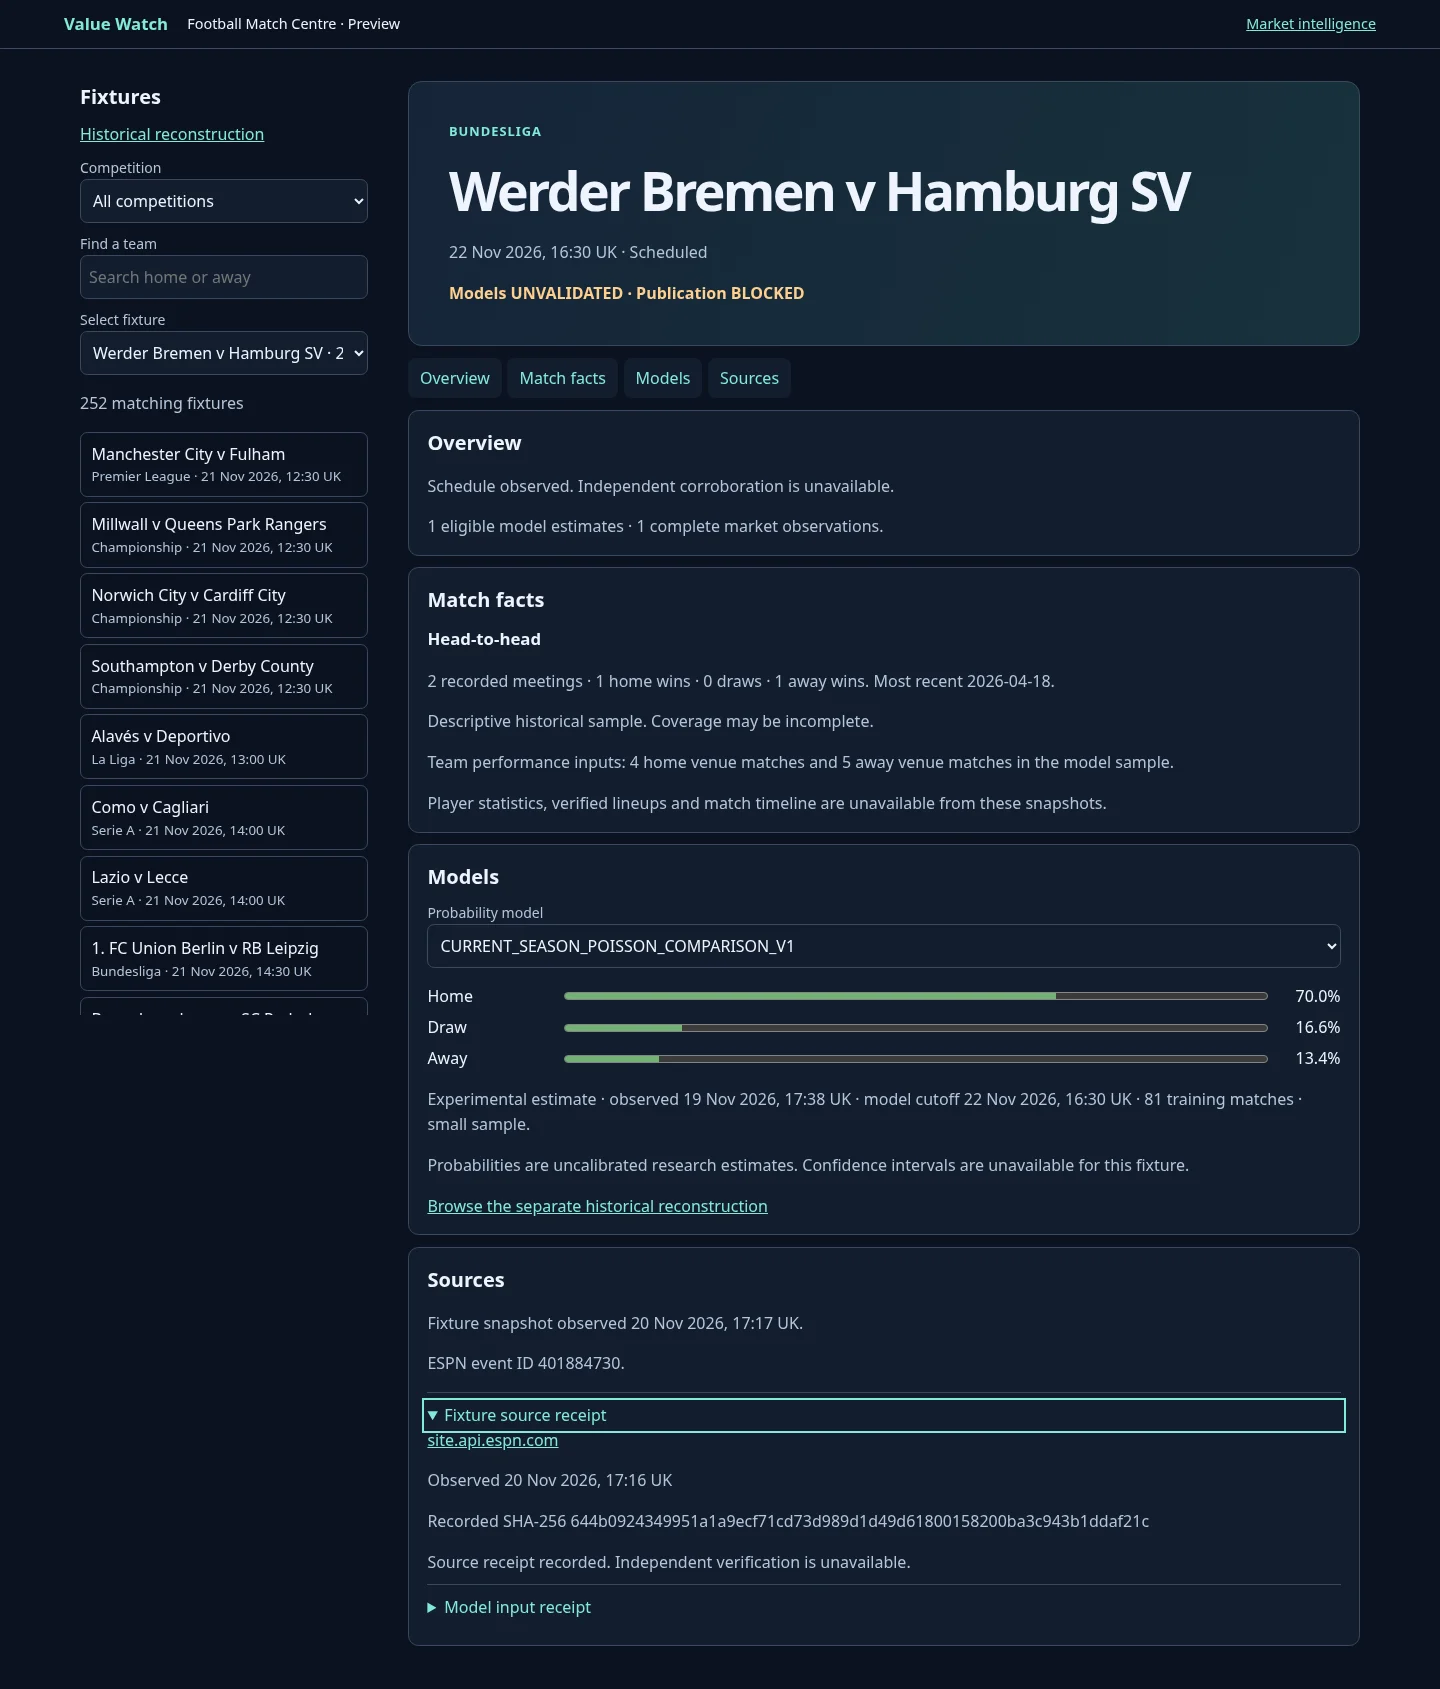
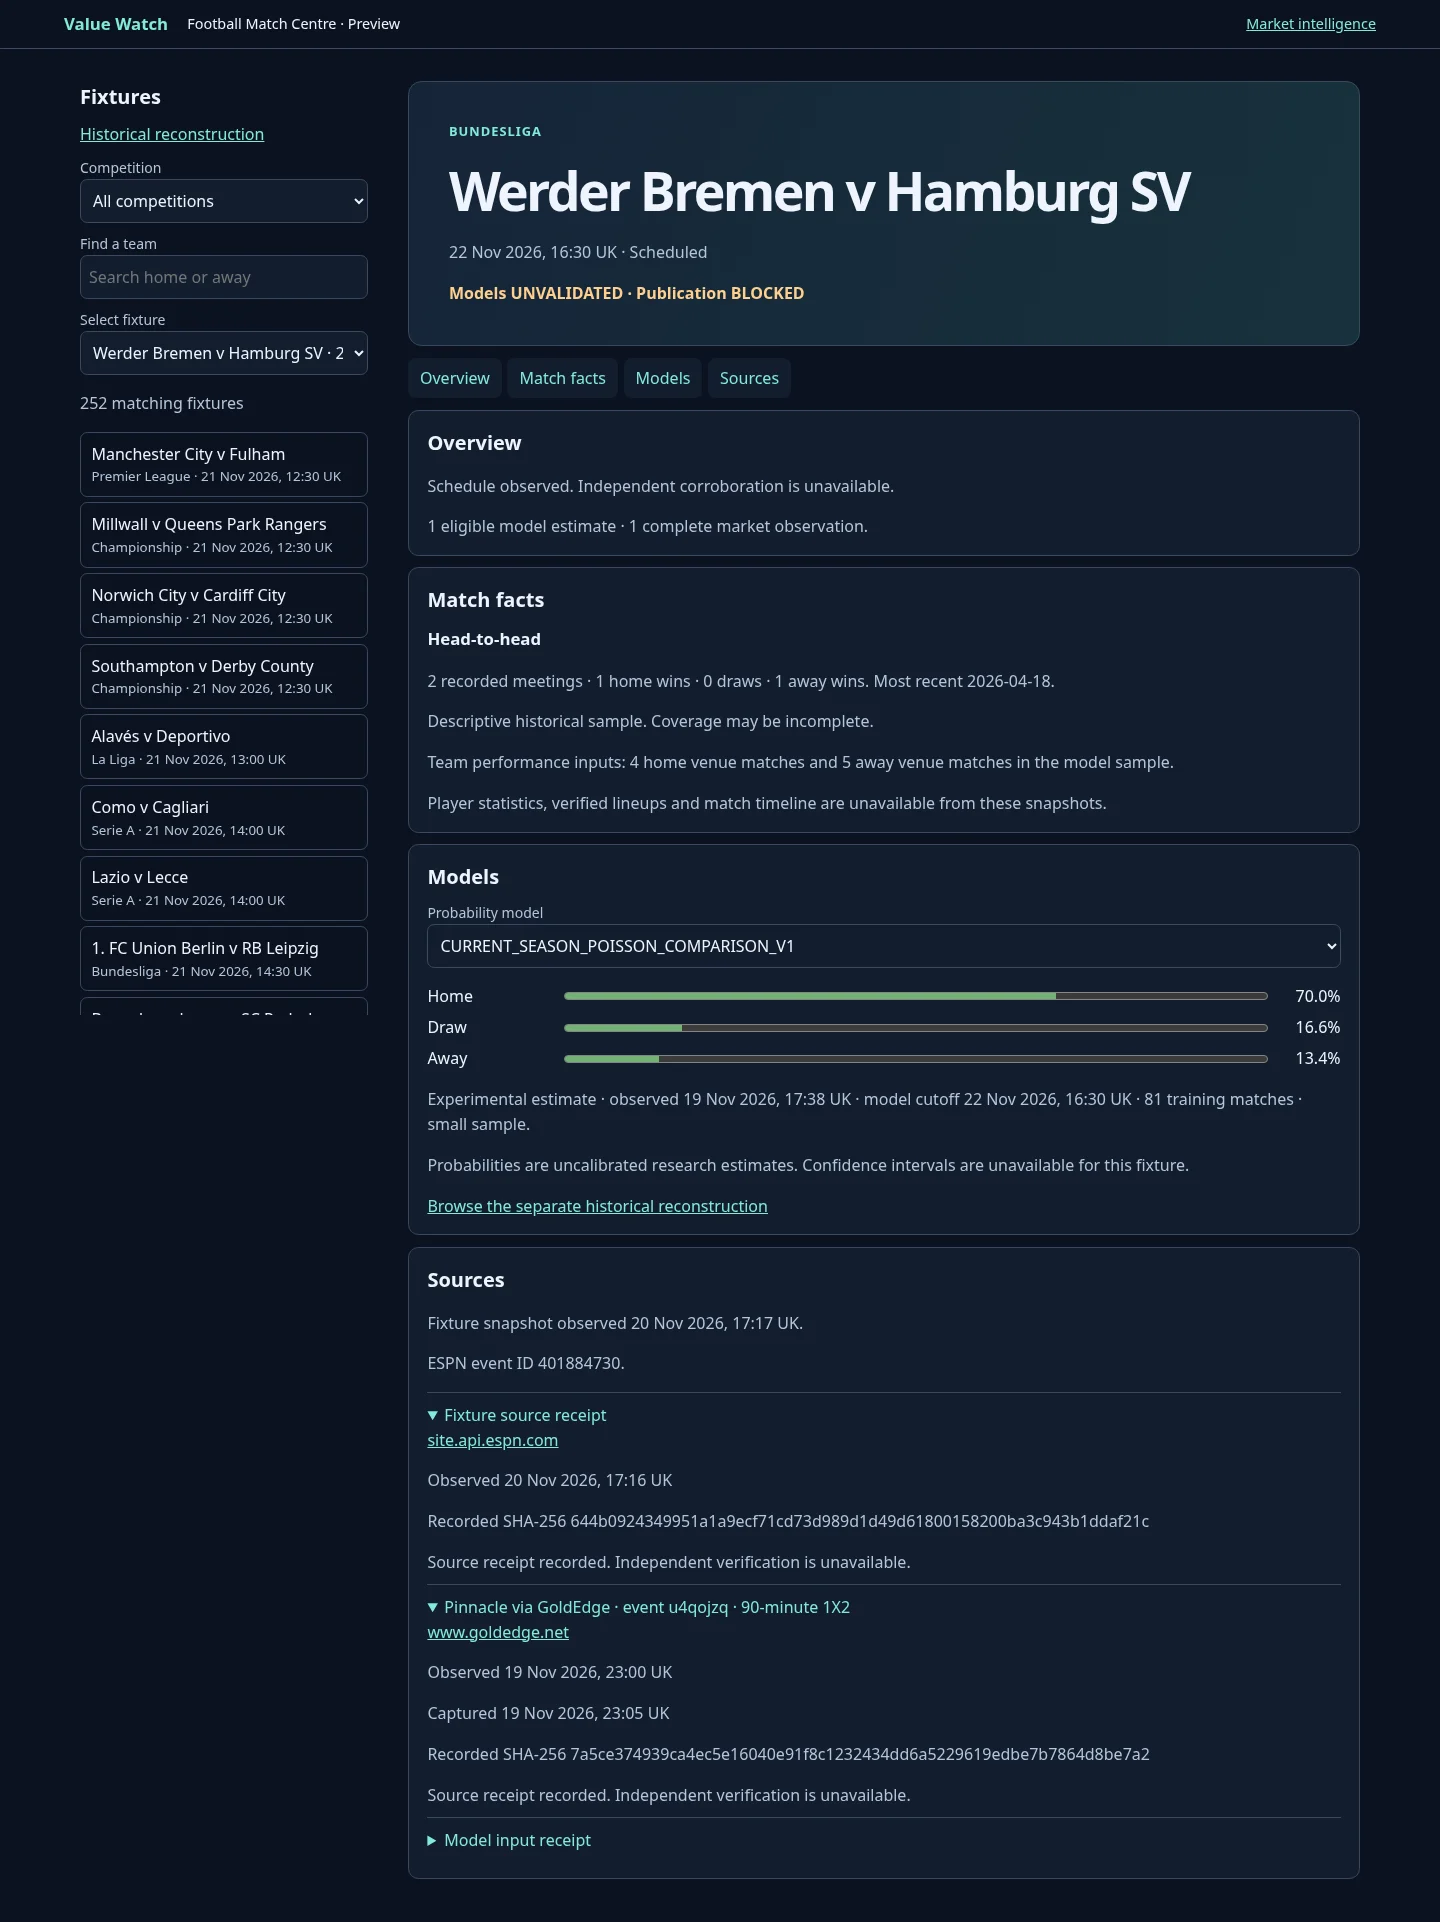
Render market receipt provenance in match preview

diff --git a/football-match/app.js b/football-match/app.js
@@ -122,7 +122,9 @@
       event.start > Date.now() ? 'Scheduled' : 'Kickoff elapsed · final status unavailable';
     $('event-time').textContent = format(event.start) + ' · ' + knownStatus;
     node(overview, 'p', row.verification === 'SCHEDULE_CROSS_CHECK' ? 'Schedule cross-check recorded.' : 'Schedule observed. Independent corroboration is unavailable.');
-    node(overview, 'p', estimates.length + ' eligible model estimates · ' + (market?.sources.length ?? 0) + ' complete market observations.');
+    const marketCount = market?.sources.length ?? 0;
+    node(overview, 'p', estimates.length + ' eligible model ' + (estimates.length === 1 ? 'estimate' : 'estimates') +
+      ' · ' + marketCount + ' complete market ' + (marketCount === 1 ? 'observation.' : 'observations.'));
     if (event.kickoffs.length > 1) node(overview, 'p', 'Kickoff revised by the same provider. Other known schedule times: ' +
       event.kickoffs.filter(time => time !== event.start).map(format).join(', ') + '.');
     const h2h = row.head_to_head_research;
@@ -153,7 +155,7 @@
       if (observed <= event.observed) addReceipt(sources, { url:receipt.url, observed, hash:receipt.sha256 }, 'Fixture source receipt');
     }
     for (const observation of market?.sources ?? []) {
-      addReceipt(sources, observation, observation.name + ' · event ' + observation.id + ' · 90-minute 1X2');
+      addReceipt(sources, { ...observation, url:observation.url.href }, observation.name + ' · event ' + observation.id + ' · 90-minute 1X2');
     }
     for (const {row: model, observed} of available) if (Array.isArray(model.source_receipts)) for (const receipt of model.source_receipts) {
       const timestamp = evidence.instant(receipt?.observed_at_utc);
